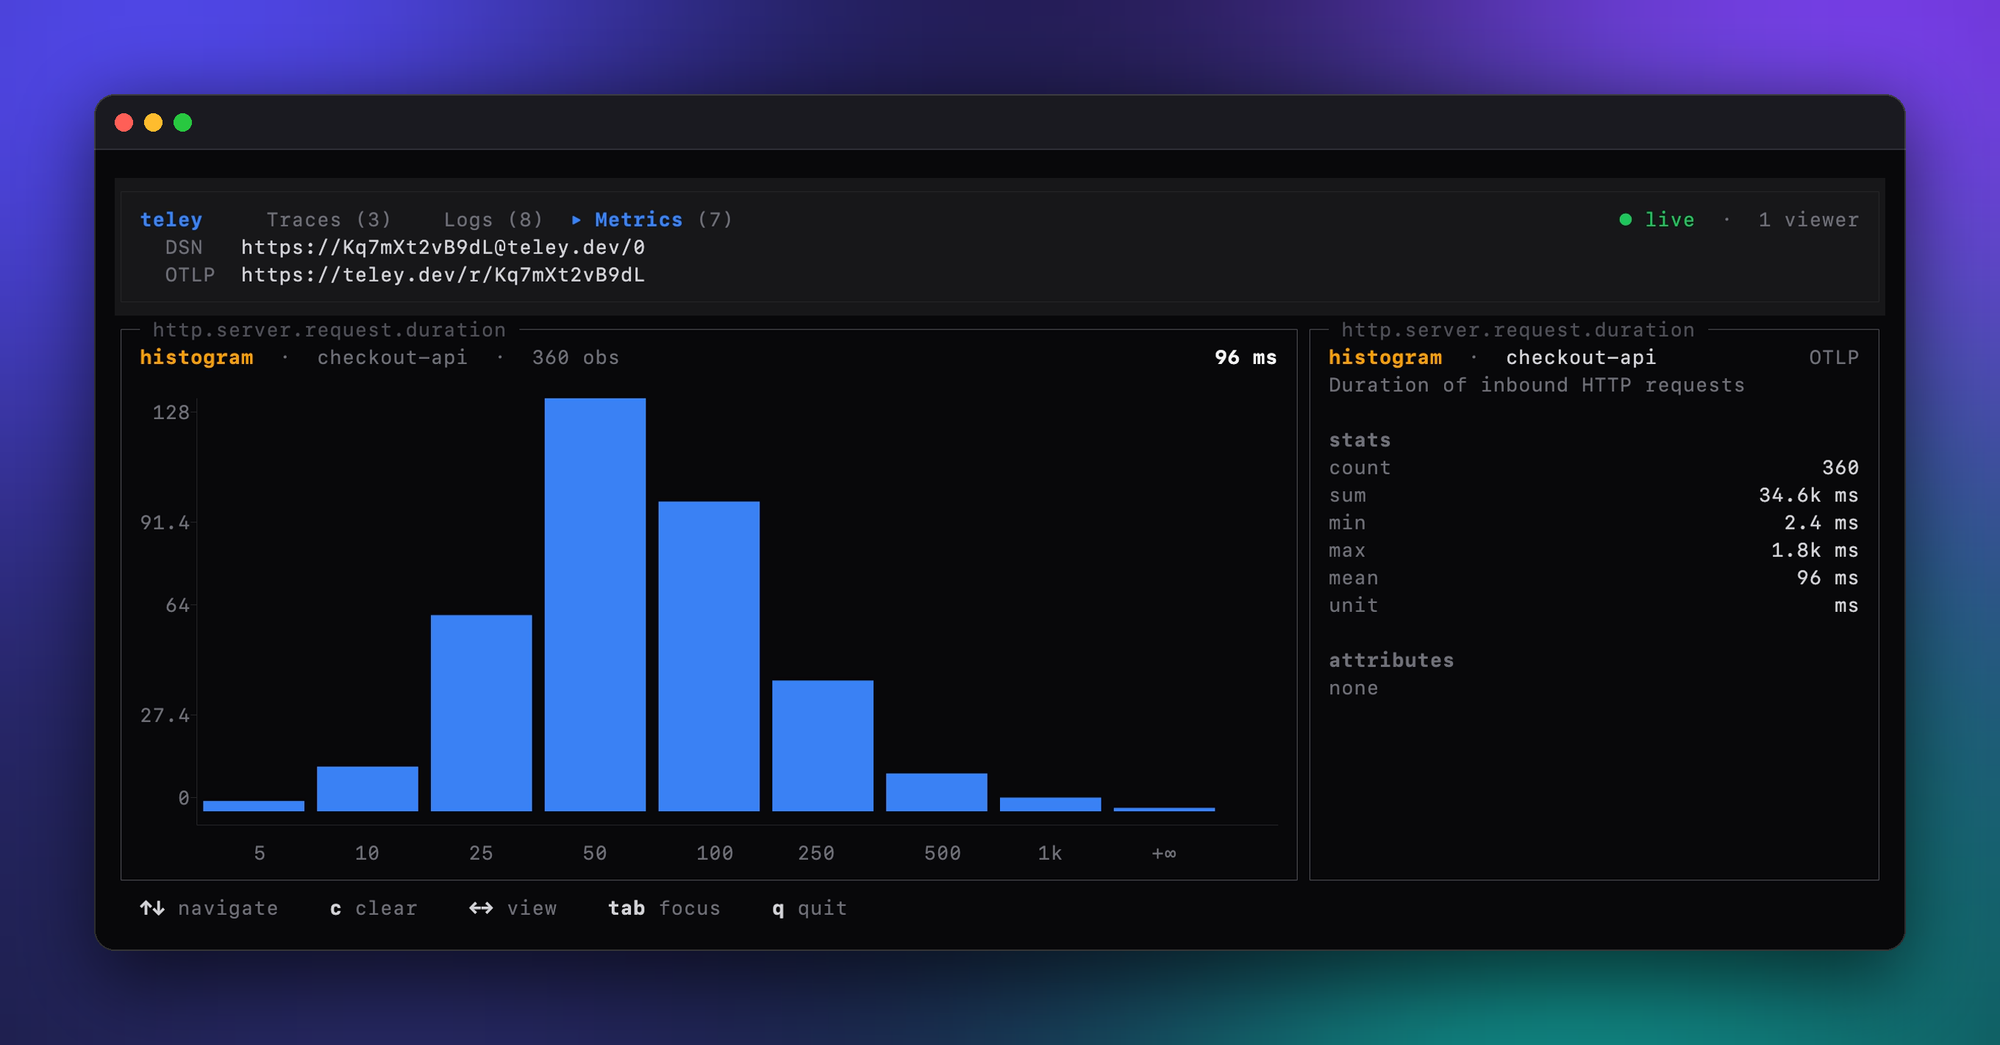
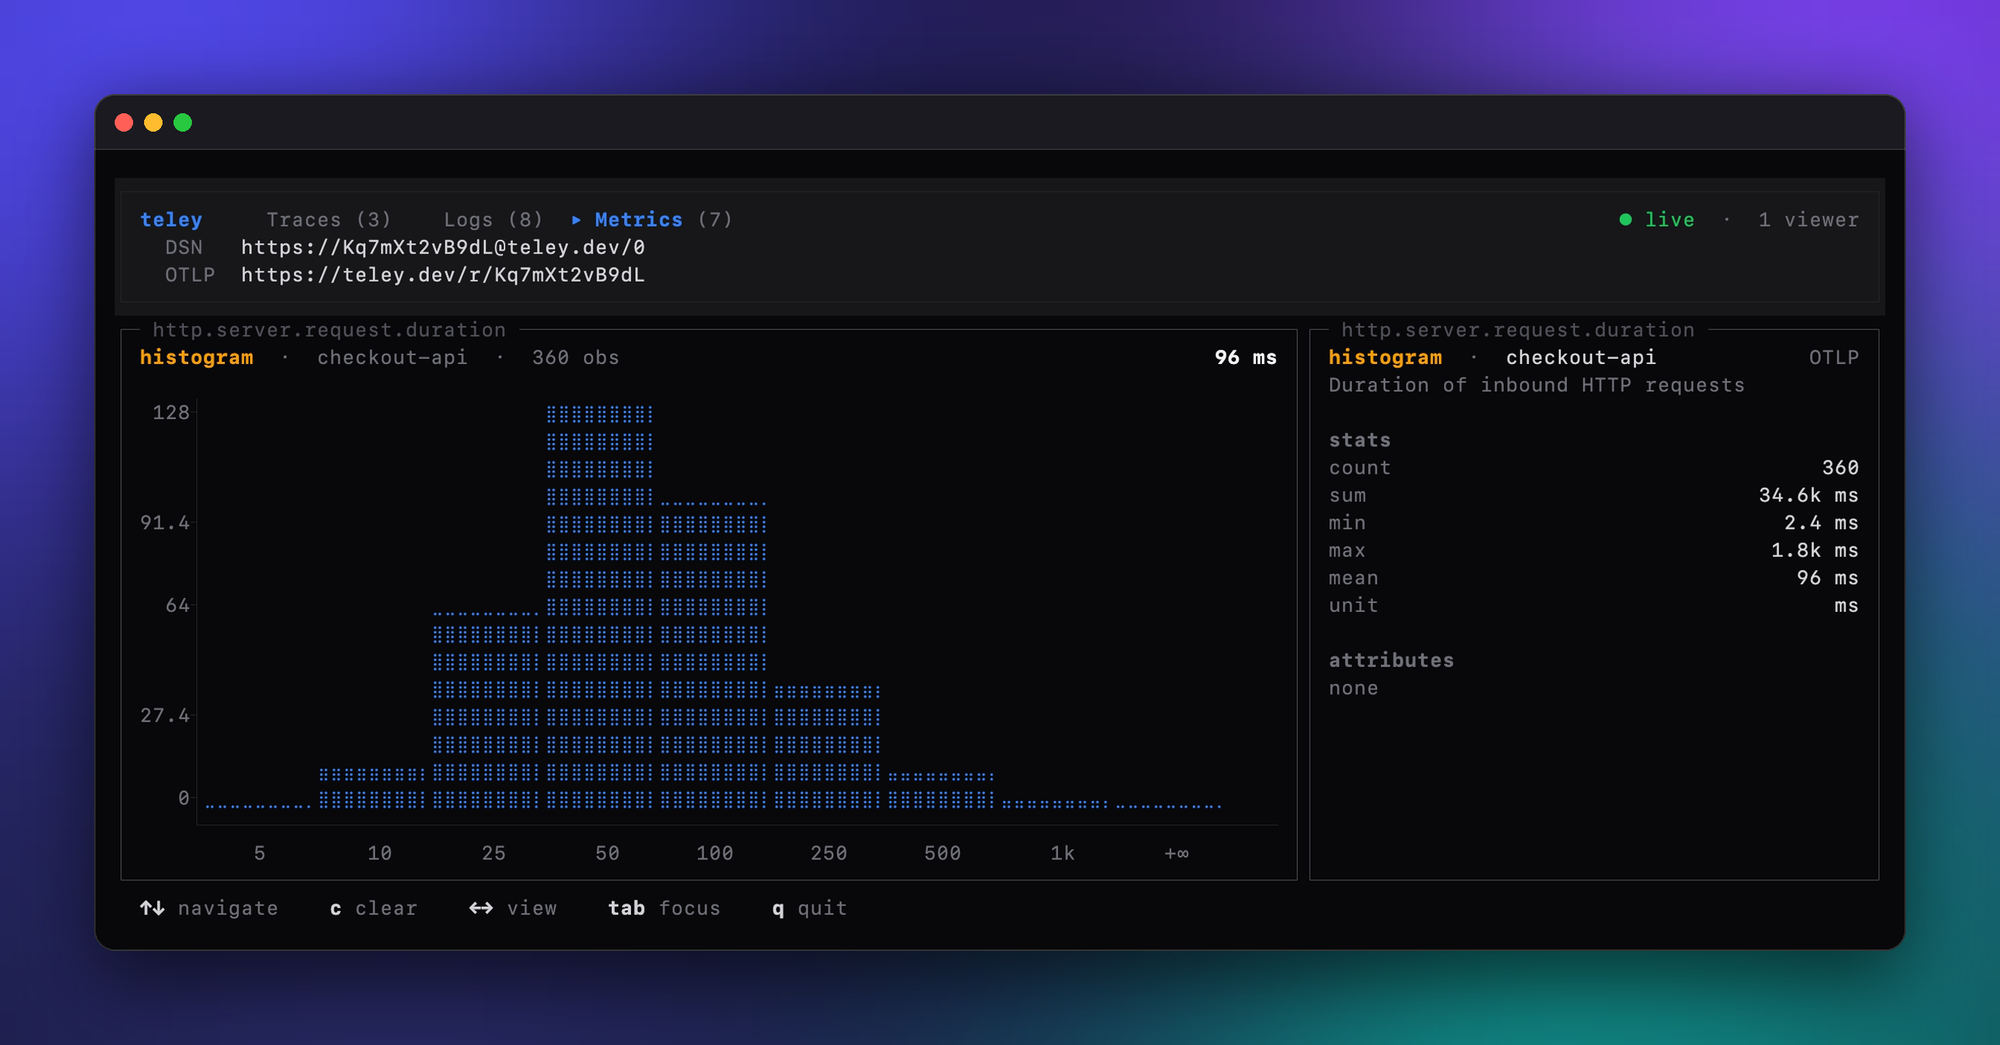
refactor(cli): draw histogram bars in braille, and degrade instead of refusing
Bars used the eighth-block ramp, which gave them twice the vertical
resolution of the line chart but made the two look like they came from
different programs. They are now filled rectangles in the same braille
grid. The trade is 4 vertical levels per cell instead of 8, which a bar
does not need since its height is read against the axis, and in exchange
bars are positioned to half a cell, so twice as many buckets fit before
any have to be merged.

A chart that could not fit its scale used to refuse to draw and tell the
reader to widen the terminal. It now drops the scale and keeps the plot,
since shape without labels beats no chart at all, and the message is
reserved for the case where even a bare plot will not fit. It also names
which of the three reasons applies rather than always blaming the width.

The meta and status rows are pinned to one line for the same reason the
header was: both are counted in the body height, so wrapping them at a
narrow width cut the top border off the panels.

Changed region(s): [[0.093, 0.3675, 0.62, 0.8268]]

diff --git a/cli/src/chart.ts b/cli/src/chart.ts
@@ -2,14 +2,18 @@
 // this, so both renderers below produce plain rows of text that a component
 // prints like any other line.
 //
-// Two renderers, each matched to a data shape. A time series draws as a braille
-// line, because a braille cell carries 2x4 dots and so an 8-row panel plots at
-// 32 rows of vertical resolution. Histogram buckets draw as block columns
-// instead: a bar's height is the whole reading, and subcell smoothing would
-// only blur where one bucket ends and the next begins.
+// Two renderers, one texture. A braille cell carries 2x4 dots, so an 8-row
+// panel plots at 32 rows of vertical resolution and every column can be
+// addressed at half-cell precision. A time series draws as a line through those
+// dots; histogram buckets draw as filled rectangles of them. Bars could use the
+// eighth-block ramp instead, which would double their vertical resolution, but
+// then the two charts would not look like they came from the same program, and
+// a bar's height is read against the axis rather than to within an eighth of a
+// row.
 //
 // Both take the panel's full width and lay out their own y-axis column, since
-// how wide the labels are is only known once the scale is.
+// how wide the labels are is only known once the scale is. When the panel is
+// too narrow to carry both, the scale is what gives.
 
 // Braille cells are U+2800 plus a bitmask over the 8 dots, whose bit order is
 // historical rather than raster order: the first three rows fill column-major
@@ -83,6 +87,15 @@ export class BrailleCanvas {
     }
   }
 
+  // Fills a pixel rectangle. Bars are drawn with this rather than with block
+  // characters so both charts share one texture, and so a bar can be an odd
+  // number of dots wide.
+  fillRect(x: number, y: number, w: number, h: number): void {
+    for (let dy = 0; dy < h; dy++) {
+      for (let dx = 0; dx < w; dx++) this.set(x + dx, y + dy);
+    }
+  }
+
   toRows(): string[] {
     const out: string[] = [];
     for (let row = 0; row < this.rows; row++) {
@@ -98,10 +111,6 @@ export class BrailleCanvas {
   }
 }
 
-// Eighth-block heights, indexed by how many eighths of a cell are filled.
-const BLOCKS = [' ', '▁', '▂', '▃', '▄', '▅', '▆', '▇', '█'] as const;
-const EIGHTHS = 8;
-
 // Below this there is no room for a plot worth drawing.
 const MIN_COLS = 8;
 const MIN_ROWS = 2;
@@ -115,6 +124,9 @@ export interface Axis {
   x: string;
   // Width of the y column, so the caller can indent the axis rule to match.
   yWidth: number;
+  // False when the panel was too narrow to carry a scale and the plot took the
+  // whole width instead. The caller draws no gutter column in that case.
+  gutter: boolean;
 }
 
 export interface Chart {
@@ -162,6 +174,31 @@ function buildYAxis(
   });
   const yWidth = labels.reduce((w, label) => Math.max(w, label.length), 0);
   return { y: labels.map((label) => label.padStart(yWidth)), yWidth };
+}
+
+// Fits the y scale into the panel, giving up the scale rather than the plot
+// when there is not room for both: a plot with no labels still shows shape,
+// which beats refusing to draw and telling the reader to resize the terminal.
+// Returns null only when even a bare plot will not fit.
+function fitAxis(
+  width: number,
+  rows: number,
+  min: number,
+  max: number,
+  formatValue: (v: number) => string,
+): { y: string[]; yWidth: number; gutter: boolean; cols: number } | null {
+  const scale = buildYAxis(rows, min, max, formatValue);
+  const cols = width - scale.yWidth - 1; // -1 for the gutter
+  if (cols >= MIN_COLS) return { ...scale, gutter: true, cols };
+  if (width >= MIN_COLS) {
+    return {
+      y: Array.from({ length: rows }, () => ''),
+      yWidth: 0,
+      gutter: false,
+      cols: width,
+    };
+  }
+  return null;
 }
 
 // Writes labels into a fixed-width row at fractional positions. A label is
@@ -230,9 +267,9 @@ export function buildLineChart(options: {
     max += pad;
   }
 
-  const { y, yWidth } = buildYAxis(rows, min, max, formatValue);
-  const cols = width - yWidth - 1; // -1 for the axis gutter
-  if (cols < MIN_COLS) return null;
+  const axis = fitAxis(width, rows, min, max, formatValue);
+  if (!axis) return null;
+  const { y, yWidth, gutter, cols } = axis;
 
   const canvas = new BrailleCanvas(cols, rows);
   const tMin = points[0]!.t;
@@ -272,14 +309,16 @@ export function buildLineChart(options: {
   return {
     plot: canvas.toRows(),
     plotWidth: cols,
-    axis: { y, x, yWidth },
+    axis: { y, x, yWidth, gutter },
     min,
     max,
   };
 }
 
 /**
- * Histogram buckets as block columns. Buckets that cannot each hold a column
+ * Histogram buckets as bars, filled into the same braille grid the line uses.
+ * Bars are laid out in dots rather than cells, so twice as many buckets fit
+ * before any have to be merged; buckets that still cannot each hold a column
  * are merged with their neighbours (counts summed, the group keeping the first
  * bound's label), so a narrow panel shows a coarser histogram rather than a
  * truncated one.
@@ -298,50 +337,41 @@ export function buildBarChart(options: {
   // measurement settles immediately; the bound is a backstop, not a schedule.
   let bars = options.bars;
   let max = 0;
-  let axisY: { y: string[]; yWidth: number } | null = null;
-  let cols = 0;
+  let axis: ReturnType<typeof fitAxis> = null;
 
   for (let pass = 0; pass < 3; pass++) {
     max = Math.max(...bars.map((bar) => bar.value));
-    axisY = buildYAxis(rows, 0, max, formatValue);
-    cols = width - axisY.yWidth - 1;
-    if (cols < MIN_COLS) return null;
-    if (bars.length <= cols) break;
-    bars = mergeBars(bars, cols);
+    axis = fitAxis(width, rows, 0, max, formatValue);
+    if (!axis) return null;
+    if (bars.length <= axis.cols) break;
+    bars = mergeBars(bars, axis.cols);
   }
 
   // Every bucket is empty: there is no scale to draw, and an empty plot says so
   // more honestly than a row of full-height bars would.
-  if (max <= 0 || !axisY) return null;
+  if (max <= 0 || !axis) return null;
 
-  const slot = Math.max(1, Math.floor(cols / bars.length));
-  const fill = slot > 1 ? slot - 1 : 1;
+  const { y, yWidth, gutter, cols } = axis;
+  const canvas = new BrailleCanvas(cols, rows);
 
-  // Height in eighths of a cell. A non-empty bucket is floored at one eighth,
-  // so a bucket with a single sample stays visible next to a tall neighbour.
-  const heights = bars.map((bar) =>
-    bar.value <= 0
-      ? 0
-      : Math.max(1, Math.round((bar.value / max) * rows * EIGHTHS)),
-  );
+  // Bars are laid out in dots rather than cells, so a bar can be an odd number
+  // of dots wide and twice as many buckets fit before any have to be merged.
+  const slot = Math.max(2, Math.floor(canvas.width / bars.length));
+  const fill = slot > 2 ? slot - 1 : slot;
 
-  const plot = Array.from({ length: rows }, (_, row) => {
-    // Cells below this row are full, so subtract them to get what is left over
-    // for this one.
-    const below = (rows - 1 - row) * EIGHTHS;
-    let line = '';
-    for (const height of heights) {
-      const eighths = Math.max(0, Math.min(EIGHTHS, height - below));
-      line += BLOCKS[eighths]!.repeat(fill) + ' '.repeat(slot - fill);
-    }
-    return line.slice(0, cols).padEnd(cols);
-  });
+  for (const [i, bar] of bars.entries()) {
+    if (bar.value <= 0) continue;
+    // Floored at one dot, so a bucket with a single sample stays visible next
+    // to a tall neighbour instead of rounding away to nothing.
+    const height = Math.max(1, Math.round((bar.value / max) * canvas.height));
+    canvas.fillRect(i * slot, canvas.height - height, fill, height);
+  }
 
   // Centred on the bar itself, not on its left edge, so a label sits over the
-  // column it names.
+  // column it names. Dot positions halve into cell positions.
   const x = placeLabels(
     bars.map((bar, i) => ({
-      at: (i * slot + (fill - 1) / 2) / Math.max(1, cols - 1),
+      at: (i * slot + (fill - 1) / 2) / 2 / Math.max(1, cols - 1),
       text: bar.label,
     })),
     cols,
@@ -349,9 +379,9 @@ export function buildBarChart(options: {
   );
 
   return {
-    plot,
+    plot: canvas.toRows(),
     plotWidth: cols,
-    axis: { y: axisY.y, x, yWidth: axisY.yWidth },
+    axis: { y, x, yWidth, gutter },
     min: 0,
     max,
   };

diff --git a/cli/src/components/MetricChart.tsx b/cli/src/components/MetricChart.tsx
@@ -13,6 +13,23 @@ interface Props {
 // Border (2) + meta line (1) + spacer (1) + axis rule (1) + x labels (1).
 const CHROME_ROWS = 6;
 
+// Why there is no chart. The builders drop the scale before they give up, so
+// reaching the size case means the panel is genuinely too small, and the other
+// two are about the data rather than the terminal.
+function emptyReason(series: MetricSeries, rows: number): string {
+  if (series.buckets) {
+    return series.buckets.every((bucket) => bucket.value <= 0)
+      ? 'No observations recorded in any bucket yet.'
+      : 'Not enough room to plot. Widen the terminal.';
+  }
+  if (series.points.length === 0) {
+    return 'No values recorded for this series yet.';
+  }
+  return rows === 0
+    ? 'Not enough room to plot. Make the terminal taller.'
+    : 'Not enough room to plot. Widen the terminal.';
+}
+
 export function MetricChart({ series, width, height, focused }: Props) {
   const inner = width - 4; // border + padding
   const rows = Math.max(0, height - CHROME_ROWS);
@@ -69,9 +86,17 @@ export function MetricChart({ series, width, height, focused }: Props) {
       }}
       title={` ${truncate(series.name, Math.max(4, inner - 2))} `}
     >
-      {/* Meta line, with the current reading held on the right. Composed as one
-          truncated string so it never wraps into the plot's rows. */}
-      <box style={{ flexDirection: 'row' }}>
+      {/* Meta line, with the current reading held on the right. Pinned to one
+          row: the plot's height is computed from CHROME_ROWS, so a meta line
+          that wrapped would push the last plot row out of the panel. */}
+      <box
+        style={{
+          flexDirection: 'row',
+          height: 1,
+          flexShrink: 0,
+          overflow: 'hidden',
+        }}
+      >
         <text fg={metricTypeColor(series.type)} attributes={BOLD}>
           {truncate(series.type, inner)}
         </text>
@@ -92,23 +117,31 @@ export function MetricChart({ series, width, height, focused }: Props) {
           <box style={{ marginTop: 1, flexDirection: 'column' }}>
             {chart.plot.map((row, i) => (
               <box key={i} style={{ flexDirection: 'row' }}>
-                <text fg={UI.dim}>{chart.axis.y[i]}</text>
-                {/* A labelled row gets a tick, the rest just the axis line. */}
-                <text fg={UI.border}>
-                  {chart.axis.y[i]?.trim() ? '┤' : '│'}
-                </text>
+                {/* No gutter when the panel was too narrow to carry a scale:
+                    the plot took those columns instead. */}
+                {chart.axis.gutter ? (
+                  <>
+                    <text fg={UI.dim}>{chart.axis.y[i]}</text>
+                    {/* A labelled row gets a tick, the rest the axis line. */}
+                    <text fg={UI.border}>
+                      {chart.axis.y[i]?.trim() ? '┤' : '│'}
+                    </text>
+                  </>
+                ) : null}
                 <text fg={CHART_LINE}>{row}</text>
               </box>
             ))}
           </box>
           <box style={{ flexDirection: 'row' }}>
             <text fg={UI.border}>
-              {`${' '.repeat(chart.axis.yWidth)}└${'─'.repeat(chart.plotWidth)}`}
+              {chart.axis.gutter
+                ? `${' '.repeat(chart.axis.yWidth)}└${'─'.repeat(chart.plotWidth)}`
+                : '─'.repeat(chart.plotWidth)}
             </text>
           </box>
           <box style={{ flexDirection: 'row' }}>
             <text fg={UI.dim}>
-              {`${' '.repeat(chart.axis.yWidth + 1)}${chart.axis.x}`}
+              {`${' '.repeat(chart.axis.gutter ? chart.axis.yWidth + 1 : 0)}${chart.axis.x}`}
             </text>
           </box>
         </>
@@ -120,11 +153,7 @@ export function MetricChart({ series, width, height, focused }: Props) {
             alignItems: 'center',
           }}
         >
-          <text fg={UI.dim}>
-            {series.points.length === 0 && !series.buckets
-              ? 'No values recorded for this series yet.'
-              : 'Not enough room to plot. Widen the terminal.'}
-          </text>
+          <text fg={UI.dim}>{emptyReason(series, rows)}</text>
         </box>
       )}
     </box>

diff --git a/cli/src/components/StatusBar.tsx b/cli/src/components/StatusBar.tsx
@@ -22,8 +22,19 @@ export function StatusBar({
   focus: Focus;
   canScroll: boolean;
 }) {
+  // One row, clipped rather than wrapped: the body height is computed assuming
+  // this is STATUS_H tall, so a narrow terminal that wrapped the hints would
+  // push the panels up and cut off their top border.
   return (
-    <box style={{ flexDirection: 'row', paddingLeft: 1 }}>
+    <box
+      style={{
+        flexDirection: 'row',
+        paddingLeft: 1,
+        height: 1,
+        flexShrink: 0,
+        overflow: 'hidden',
+      }}
+    >
       {focus === 'links' ? (
         <>
           <Key k="↑↓" label="select link" />

diff --git a/cli/README.md b/cli/README.md
@@ -72,7 +72,7 @@ Traces, logs, and metrics all go to that one OTLP endpoint, in JSON or protobuf,
 - **Live waterfall.** Time-proportional span bars with the real hierarchy, span-kind badges, and errors in red.
 - **Span details.** Kind, duration, status, span id, and every attribute for the selected span.
 - **Logs view.** The full log stream with severity colors, correlated with the traces in the same room.
-- **Metric charts.** Counters and gauges plot as braille line charts, histograms as block columns, both drawn in the terminal itself. A metric split by attributes is charted as one series per attribute set, not folded into an average.
+- **Metric charts.** Drawn in the terminal itself, out of braille: counters and gauges as lines, histogram buckets as bars. A metric split by attributes is charted as one series per attribute set, not folded into an average.
 - **Both protocols.** OTLP and Sentry envelopes render in one timeline, each tagged with its source.
 - **Sessions that persist.** Your room is reused across runs, so a restart does not invalidate the DSN you configured.
 - **Pipeable.** `--json` drops the TUI and streams the room as newline-delimited JSON, for `jq`, a file, or CI.
@@ -95,8 +95,8 @@ Traces, logs, and metrics all go to that one OTLP endpoint, in JSON or protobuf,
 </p>
 
 <p align="center">
-  <img src="https://raw.githubusercontent.com/logaretm/teley/main/docs/screenshots/teley-cli-metrics-histogram.png" alt="A histogram's buckets as block columns, with the stats panel open" width="100%">
-  <br><em>Histogram buckets get block columns instead, labelled with their upper bounds. <code>tab</code> swaps the series list for the snapshot's own summary.</em>
+  <img src="https://raw.githubusercontent.com/logaretm/teley/main/docs/screenshots/teley-cli-metrics-histogram.png" alt="A histogram's buckets as braille bars, with the stats panel open" width="100%">
+  <br><em>Histogram buckets are bars in the same braille grid, labelled with their upper bounds. <code>tab</code> swaps the series list for the snapshot's own summary.</em>
 </p>
 
 ## ⌨ Keys

diff --git a/.changeset/olive-donkeys-shave.md b/.changeset/olive-donkeys-shave.md
@@ -4,6 +4,8 @@
 
 Add a metrics view. The relay has been broadcasting `metric_update` all along and the CLI dropped it on the floor, so counters, gauges, histograms, and sets now land in the TUI, `--json`, `--local`, and a `list_metrics` MCP tool alongside traces and logs. `←`/`→` cycles three views rather than toggling two.
 
-Charts are drawn in the terminal with no dependency. A time series plots as a braille line, which packs 2x4 dots into every cell and so gives an 8-row panel 32 rows of vertical resolution; histogram buckets plot as block columns instead, since a bar's height is the whole reading and subcell smoothing would only blur where one bucket ends. Series are keyed by name _and_ attributes, so a metric split by route is several lines rather than one meaningless zigzag, and the list labels siblings with just the attribute values that differ between them.
+Charts are drawn in the terminal with no dependency, out of braille: a cell carries 2x4 dots, so an 8-row panel plots at 32 rows of vertical resolution and every column is addressable at half-cell precision. A time series draws as a line through those dots, histogram buckets as filled bars in the same grid. Series are keyed by name _and_ attributes, so a metric split by route is several lines rather than one meaningless zigzag, and the list labels siblings with just the attribute values that differ between them.
+
+When a panel is too narrow to carry both a scale and a plot, the scale is what gives: the chart drops its axis and keeps drawing, rather than refusing and asking for a wider terminal.
 
 Also pins the header's rows to one line each. It reports its own height to the layout, and the extra tab made it wrap on a narrow terminal, which pushed the panels off the bottom of the screen.

diff --git a/cli/vhs/README.md b/cli/vhs/README.md
@@ -15,7 +15,7 @@ inspection and are gitignored.
 | ------------------------ | --------------------------------- | ------------------------------------------------- |
 | `navigation.tape`        | `teley-cli-navigation.gif`        | Every key in the readme's key table, in order     |
 | `metrics.tape`           | `teley-cli-metrics.png`           | A gauge as a braille line, split into two series  |
-| `metrics-histogram.tape` | `teley-cli-metrics-histogram.png` | A histogram's buckets as block columns            |
+| `metrics-histogram.tape` | `teley-cli-metrics-histogram.png` | A histogram's buckets as braille bars             |
 | `mcp.tape`               | `teley-cli-mcp.gif`               | The MCP loop against a real `teley mcp --local`   |
 | `json.tape`              | `teley-cli-json.png`              | `--json` piped through `jq`                       |
 | `local.tape`             | `teley-cli-local.png`             | `--local`, with localhost endpoints in the header |
